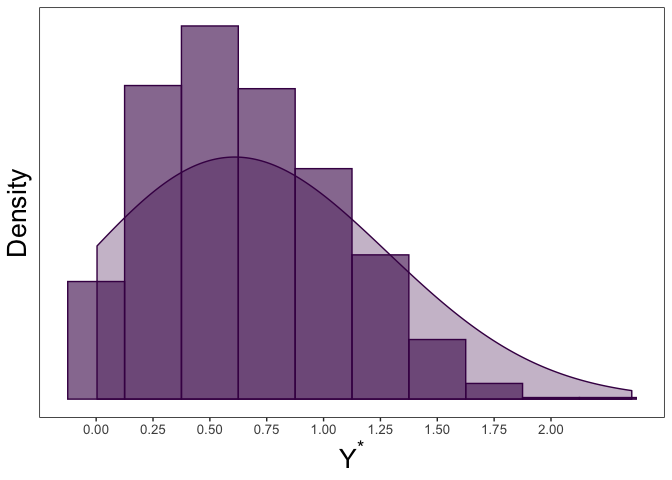
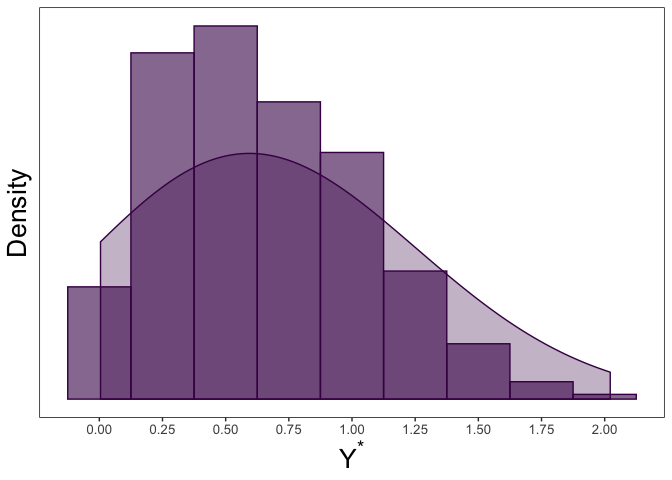
update installation guide

diff --git a/README.md b/README.md
@@ -33,6 +33,9 @@ the GitHub verion for the active development version:
 ``` r
 #stable CRAN version
 install.packages("tcensReg")
+
+# or ----
+
 #active devel. GitHub version
 install.packages("devtools")
 devtools::install_github("williazo/tcensReg")
@@ -62,7 +65,7 @@ y_star <- rtnorm(n=1000, mu=mu, sd=sigma, a=a)
 round(range(y_star), 3)
 ```
 
-    ## [1] 0.004 2.355
+    ## [1] 0.005 2.022
 
 Next, we can imagine a scenario where we have an imprecise measurement
 of `y_star` leading to censoring. In our case we assume that values
@@ -78,7 +81,7 @@ y <- ifelse(y_star <= nu, nu, y_star)
 sum(y == nu)/length(y) 
 ```
 
-    ## [1] 0.191
+    ## [1] 0.173
 
 ``` r
 #collecting the uncensored and censored data together
@@ -103,22 +106,22 @@ tcensReg(y ~ 1, data=dt, a=0, v=0.25)
 
     ## $theta
     ##               Estimate
-    ## (Intercept)  0.5135531
-    ## log_sigma   -0.6827764
+    ## (Intercept)  0.5032827
+    ## log_sigma   -0.6865265
     ## 
     ## $convergence
     ## [1] 0
     ## 
     ## $initial_ll
-    ## [1] -703.9048
+    ## [1] -671.5365
     ## 
     ## $final_ll
-    ## [1] -690.939
+    ## [1] -656.6539
     ## 
     ## $var_cov
     ##               (Intercept)     log_sigma
-    ## (Intercept)  0.0008405050 -0.0008258552
-    ## log_sigma   -0.0008258552  0.0015649081
+    ## (Intercept)  0.0008542455 -0.0008435506
+    ## log_sigma   -0.0008435506  0.0015824624
     ## 
     ## $method
     ## [1] "CG"
@@ -167,9 +170,9 @@ knitr::kable(results_df, format="markdown", digits=4)
 |            |     mu |  sigma | mu\_bias | sigma\_bias |
 | :--------- | -----: | -----: | -------: | ----------: |
 | Truth      | 0.5000 | 0.5000 |   0.0000 |      0.0000 |
-| tcensReg   | 0.5136 | 0.5052 |   0.0136 |      0.0052 |
-| Normal MLE | 0.6782 | 0.3740 |   0.1782 |      0.1260 |
-| Tobit      | 0.6311 | 0.4445 |   0.1311 |      0.0555 |
+| tcensReg   | 0.5033 | 0.5033 |   0.0033 |      0.0033 |
+| Normal MLE | 0.6683 | 0.3739 |   0.1683 |      0.1261 |
+| Tobit      | 0.6266 | 0.4359 |   0.1266 |      0.0641 |
 
 Other methods result in significant bias for both `mu` and `sigma`.
 
@@ -223,28 +226,28 @@ mod_result
 
     ## $theta
     ##       (Intercept) groupPopulation 2        log_sigma1        log_sigma2 
-    ##        0.50256296       -0.03487324       -1.39156717        0.81610577 
+    ##         0.4956164         0.4325634        -1.3808568         0.7435503 
     ## 
     ## $convergence
     ## [1] 2
     ## 
     ## $initial_ll
-    ## [1] -2000.264
+    ## [1] -1990.668
     ## 
     ## $final_ll
-    ## [1] -1900.638
+    ## [1] -1905.047
     ## 
     ## $var_cov
     ##                     (Intercept) groupPopulation 2    log_sigma1
-    ## (Intercept)        7.628463e-05     -7.628463e-05 -6.926603e-05
-    ## groupPopulation 2 -7.628463e-05      7.487459e-02  6.926603e-05
-    ## log_sigma1        -6.926603e-05      6.926603e-05  8.017440e-04
-    ## log_sigma2        -1.677884e-14     -1.428259e-02  1.523510e-14
+    ## (Intercept)        7.972135e-05     -7.972135e-05 -7.665606e-05
+    ## groupPopulation 2 -7.972135e-05      4.045667e-02  7.665606e-05
+    ## log_sigma1        -7.665606e-05      7.665606e-05  8.221473e-04
+    ## log_sigma2         3.997823e-21     -8.952662e-03  0.000000e+00
     ##                      log_sigma2
-    ## (Intercept)       -1.677884e-14
-    ## groupPopulation 2 -1.428259e-02
-    ## log_sigma1         1.523510e-14
-    ## log_sigma2         3.271884e-03
+    ## (Intercept)        3.997823e-21
+    ## groupPopulation 2 -8.952662e-03
+    ## log_sigma1         0.000000e+00
+    ## log_sigma2         2.587954e-03
     ## 
     ## $method
     ## [1] "maxLik"
@@ -265,10 +268,10 @@ results_df$sigma2_bias <- abs(results_df$sigma_2 - sigma_2)
 knitr::kable(results_df, format="markdown", digits=4)
 ```
 
-|          |  mu\_1 |    mu\_2 | sigma\_1 | sigma\_2 | mu1\_bias | mu2\_bias | sigma1\_bias | sigma2\_bias |
-| :------- | -----: | -------: | -------: | -------: | --------: | --------: | -----------: | -----------: |
-| Truth    | 0.5000 |   1.0000 |   0.2500 |   2.0000 |    0.0000 |    0.0000 |       0.0000 |       0.0000 |
-| tcensReg | 0.5026 | \-0.0349 |   0.2487 |   2.2617 |    0.0026 |    1.0349 |       0.0013 |       0.2617 |
+|          |  mu\_1 |  mu\_2 | sigma\_1 | sigma\_2 | mu1\_bias | mu2\_bias | sigma1\_bias | sigma2\_bias |
+| :------- | -----: | -----: | -------: | -------: | --------: | --------: | -----------: | -----------: |
+| Truth    | 0.5000 | 1.0000 |   0.2500 |   2.0000 |    0.0000 |    0.0000 |       0.0000 |       0.0000 |
+| tcensReg | 0.4956 | 0.4326 |   0.2514 |   2.1034 |    0.0044 |    0.5674 |       0.0014 |       0.1034 |
 
 # Performance Comparison: Censored-Only and Truncated-Only
 
@@ -291,8 +294,8 @@ knitr::kable(summary(cens), format="markdown", digits=4)
 
 | expr             |     min |      lq |    mean |  median |      uq |     max | neval | cld |
 | :--------------- | ------: | ------: | ------: | ------: | ------: | ------: | ----: | :-- |
-| tcensReg\_method |  4.8716 |  5.1656 |  7.2273 |  5.6143 |  6.8531 | 22.4004 |   100 | a   |
-| censReg\_method  | 13.6368 | 14.6194 | 22.0925 | 17.7750 | 22.5968 | 94.8422 |   100 | b   |
+| tcensReg\_method |  4.8274 |  5.0639 |  6.1917 |  5.4914 |  6.4111 | 14.1275 |   100 | a   |
+| censReg\_method  | 13.8532 | 15.3771 | 20.4913 | 18.8555 | 24.0049 | 94.2790 |   100 | b   |
 
 ``` r
 #point estimates are equivalent
@@ -312,10 +315,10 @@ trunc <- microbenchmark(
 knitr::kable(summary(trunc), format="markdown", digits=4)
 ```
 
-| expr             |     min |      lq |    mean |  median |      uq |      max | neval | cld |
-| :--------------- | ------: | ------: | ------: | ------: | ------: | -------: | ----: | :-- |
-| tcensReg\_method |  8.3197 |  9.2489 | 12.8959 | 10.1725 | 14.2182 |  50.7163 |   100 | a   |
-| truncreg\_method | 25.2598 | 28.2049 | 36.0450 | 30.8232 | 37.3013 | 168.7519 |   100 | b   |
+| expr             |     min |      lq |    mean |  median |      uq |     max | neval | cld |
+| :--------------- | ------: | ------: | ------: | ------: | ------: | ------: | ----: | :-- |
+| tcensReg\_method |  8.5070 |  9.0897 | 10.9412 | 10.2202 | 11.4044 | 19.2276 |   100 | a   |
+| truncreg\_method | 25.3341 | 26.8055 | 30.8994 | 30.6907 | 32.9550 | 43.3954 |   100 | b   |
 
 ``` r
 tcensReg_est <- as.numeric(tcensReg(y_star ~ 1, data=dt, a=a, method="Newton")$theta)
@@ -325,7 +328,7 @@ truncreg_est <- as.numeric(coef(truncreg(y_star ~ 1, point=a, data=dt)))
 all.equal(tcensReg_est, truncreg_est)
 ```
 
-    ## [1] "Mean relative difference: 1.418798e-07"
+    ## [1] "Mean relative difference: 2.81716e-07"
 
 In the comparisons above we are using an intercept only model, but in
 general we expect that interest lies in understanding how a set of
@@ -358,8 +361,8 @@ knitr::kable(summary(cens), format="markdown", digits=4)
 
 | expr             |      min |       lq |     mean |   median |       uq |      max | neval | cld |
 | :--------------- | -------: | -------: | -------: | -------: | -------: | -------: | ----: | :-- |
-| tcensReg\_method | 239.4399 | 259.8322 | 300.1356 | 269.1833 | 323.7974 | 690.5391 |   100 | a   |
-| censReg\_method  | 294.4390 | 318.8463 | 375.1485 | 329.4052 | 432.0527 | 665.0162 |   100 | b   |
+| tcensReg\_method | 256.5087 | 272.6194 | 300.5560 | 290.1399 | 313.5809 | 471.8482 |   100 | a   |
+| censReg\_method  | 312.7079 | 354.8081 | 393.5711 | 374.9609 | 419.6938 | 620.8347 |   100 | b   |
 
 ``` r
 #point estimates are equivalent
@@ -368,7 +371,7 @@ censReg_est <- as.numeric(coef(censReg(y ~ ., left=nu, data=dt)))
 all.equal(tcensReg_est, censReg_est)
 ```
 
-    ## [1] "Mean relative difference: 7.673209e-05"
+    ## [1] "Mean relative difference: 0.000504483"
 
 ``` r
 #testing the truncated-only regression with 100 covariates
@@ -377,10 +380,10 @@ trunc <- microbenchmark(tcensReg_method = tcensReg(y_star ~ ., data=dt, a=a, met
 knitr::kable(summary(trunc), format="markdown", digits=4)
 ```
 
-| expr             |      min |       lq |     mean |   median |       uq |      max | neval | cld |
-| :--------------- | -------: | -------: | -------: | -------: | -------: | -------: | ----: | :-- |
-| tcensReg\_method | 292.8907 | 305.8579 | 333.4667 | 310.8038 | 328.3851 | 693.7038 |   100 | a   |
-| truncreg\_method | 339.9185 | 364.1311 | 396.5839 | 370.2025 | 390.6252 | 687.3976 |   100 | b   |
+| expr             |      min |       lq |     mean |   median |       uq |     max | neval | cld |
+| :--------------- | -------: | -------: | -------: | -------: | -------: | ------: | ----: | :-- |
+| tcensReg\_method | 260.5787 | 270.5673 | 282.2192 | 273.8075 | 278.1322 | 413.493 |   100 | b   |
+| truncreg\_method | 236.3523 | 244.5116 | 258.8053 | 248.7184 | 254.8725 | 405.701 |   100 | a   |
 
 ``` r
 tcensReg_est <- as.numeric(tcensReg(y_star ~ ., data=dt, a=a, method="BFGS")$theta)
@@ -390,4 +393,4 @@ truncreg_est <- as.numeric(coef(truncreg(y_star ~ ., point=a, data=dt)))
 all.equal(tcensReg_est, truncreg_est)
 ```
 
-    ## [1] "Mean relative difference: 4.119702e-05"
+    ## [1] "Mean relative difference: 0.0001184512"
